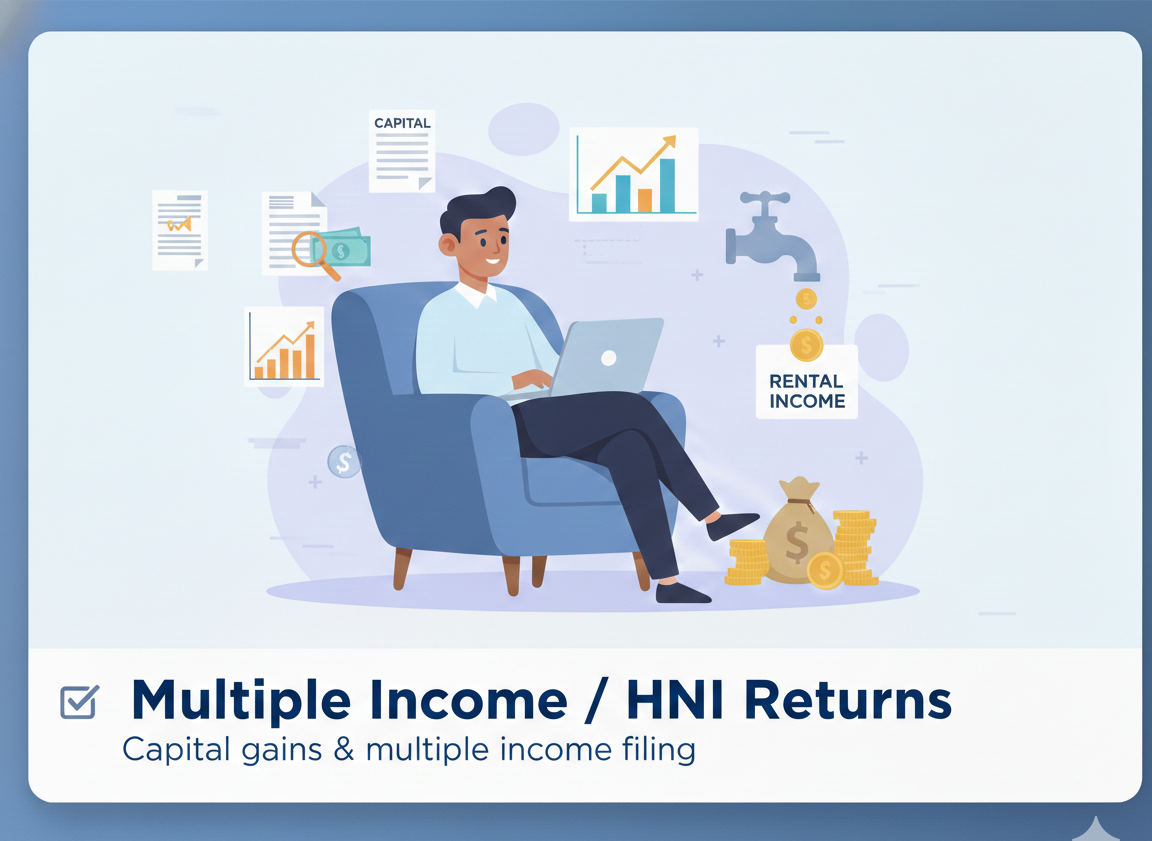
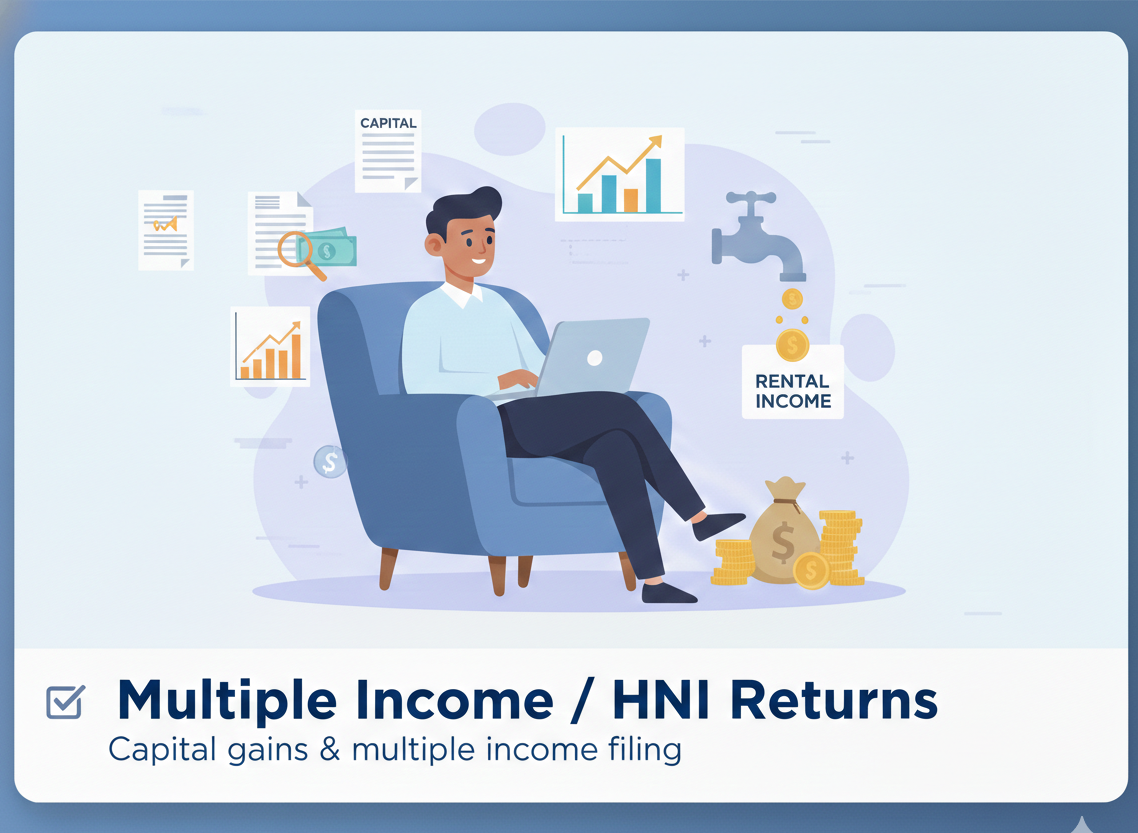
updated

diff --git a/index.html b/index.html
@@ -232,7 +232,7 @@
 
                 <!-- Logo -->
                 <div class="flex items-center gap-3">
-                    <img src="images/logo.jpg" alt="Logo" class="w-10 h-10 logo-img">
+                    <img src="images/logo.jpg" alt="Logo" class="w-10 h-10 logo-img" loading="lazy">
                     <div>
                         <span class="text-2xl font-bold tracking-tight block leading-none text-gold">Mk FinServ™</span>
                         <span class="text-[10px] uppercase tracking-[0.2em] opacity-80">Tax & Compliance</span>
@@ -281,7 +281,7 @@
     <!-- Hero Section -->
     <section id="home" class="hero-gradient text-white py-24 px-4 relative">
         <div class="max-w-5xl mx-auto text-center relative z-10">
-            <img src="images/logo.jpg" alt="Logo" class="w-10 h-10 logo-img mx-auto mb-6">
+            <img src="images/logo.jpg" alt="Logo" class="w-10 h-10 logo-img mx-auto mb-6" loading="lazy">
             <h1 class="text-4xl md:text-7xl font-extrabold mb-6">
                 Professional <span class="text-gold">Tax & Compliance</span> <br class="hidden md:block"> Solutions
             </h1>
@@ -388,7 +388,7 @@
                     <div class="h-56 bg-gray-50 flex items-center justify-center overflow-hidden">
                         <img src="images/itr-filing.webp"
                             alt="ITR Filing Service"
-                            class="w-full h-full object-cover">
+                            class="w-full h-full object-cover" loading="lazy">
                     </div>
 
                     <!-- Content Section -->
@@ -424,7 +424,7 @@
                     <div class="h-56 bg-gray-50 flex items-center justify-center overflow-hidden">
                         <img src="images/gst-compliance.webp"
                             alt="GST Nil Return Filing Service"
-                            class="w-full h-full object-cover">
+                            class="w-full h-full object-cover" loading="lazy">
                     </div>
 
                     <!-- Content Section -->
@@ -461,7 +461,7 @@
                     <div class="h-56 bg-gray-50 flex items-center justify-center overflow-hidden">
                         <img src="images/tax-planning.webp"
                             alt="Tax Planning Consultation"
-                            class="w-full h-full object-cover">
+                            class="w-full h-full object-cover" loading="lazy">
                     </div>
 
                     <!-- Content Section -->
@@ -497,7 +497,7 @@
                     <div class="h-56 bg-gray-50 flex items-center justify-center overflow-hidden">
                         <img src="images/multiple-income-hni.webp"
                             alt="Multiple Income / HNI ITR Service"
-                            class="w-full h-full object-cover">
+                            class="w-full h-full object-cover" loading="lazy">
                     </div>
 
                     <!-- Content Section -->
@@ -609,7 +609,7 @@
         <div class="max-w-7xl mx-auto flex flex-col md:flex-row justify-between items-center gap-8 mb-12">
             <!-- Logo -->
             <div class="flex items-center gap-3">
-                <img src="images/logo.jpg" alt="Logo" class="w-10 h-10 logo-img">
+                <img src="images/logo.jpg" alt="Logo" class="w-10 h-10 logo-img" loading="lazy">
                 <span class="text-2xl font-bold text-gold">Mk FinServ™</span>
             </div>
 
